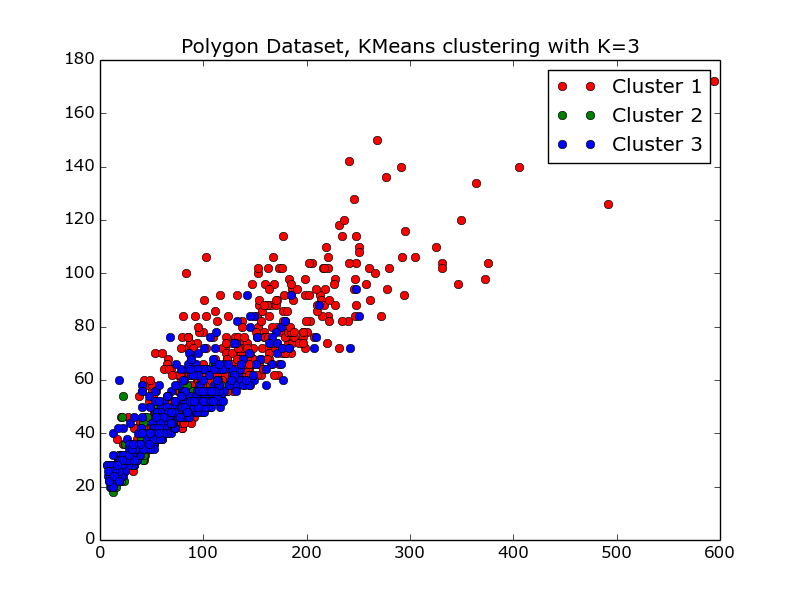
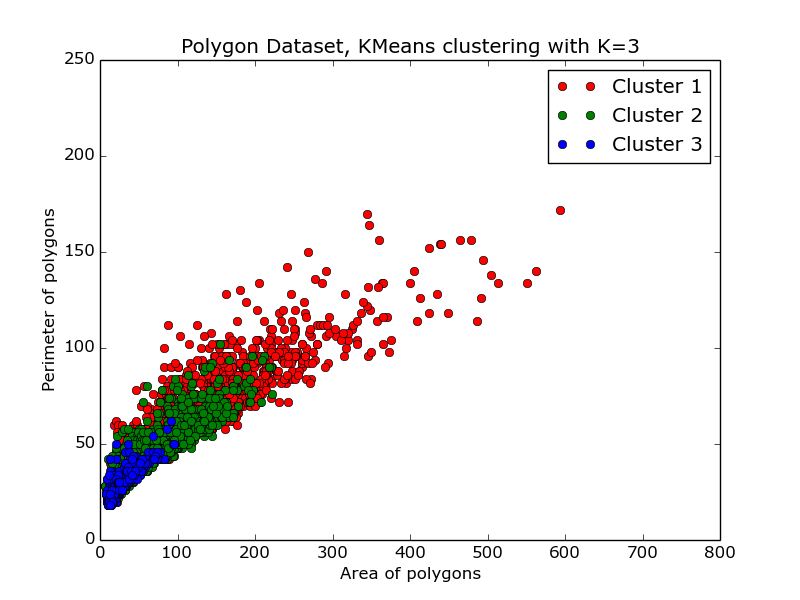
upated kmeans for relation b/w area and perimeter

diff --git a/hackrpi/kmean_cluster.py b/hackrpi/kmean_cluster.py
@@ -42,7 +42,7 @@ def plot_elbow_curve(kIdx, K, avgWithinSS):
   plt.xlabel('Number of clusters')
   plt.ylabel('Average within-cluster sum of squares')
   tt = plt.title('Elbow for KMeans clustering')
-  plt.ion()
+  plt.show()
   #return(fig,ax)
 #/////////////////////////////////////////////////////////////////////////////////
 
@@ -56,6 +56,9 @@ def plot_clusters(orig, pred, nx, ny, fo, legend=True):
   lx = p1[0].axes.set_xlabel('')
   ly = p1[0].axes.set_ylabel(ylabels[ny])
   tt= plt.title('Polygon Dataset, KMeans clustering with K=3')
+  plt.xlabel('Area of polygons')
+  plt.ylabel('Perimeter of polygons')
+ 
   if legend:
     ll=plt.legend()
   plt.savefig(dataDir + "kmeans/" + fo)
@@ -70,9 +73,9 @@ def start_kmeans(fi,fo):
   km.fit(X)
   c = km.predict(X) # classify into three clusters
   
-  (pl0,pl1,pl2) = plot_clusters(X,c,0,4,fo) # column 3 GDP, vs column 2 infant mortality. Note indexing is 0 based
+  (pl0,pl1,pl2) = plot_clusters(X,c,0,1,fo) # column 0 AREA, vs column 1 Perimeter . Note indexing is 0 based
 #for testing
-#start_kmeans("filterFeature.csv","myfilter_test.png")
+start_kmeans("path-image-100.seg.000000.000000.csv","myfilter_test.png")
 ##### cluster data into K=1..10 clusters #####
 """X = load_data("filterFeature.csv")
 K, KM, centroids,D_k,cIdx,dist,avgWithinSS = run_kmeans(X,10)
